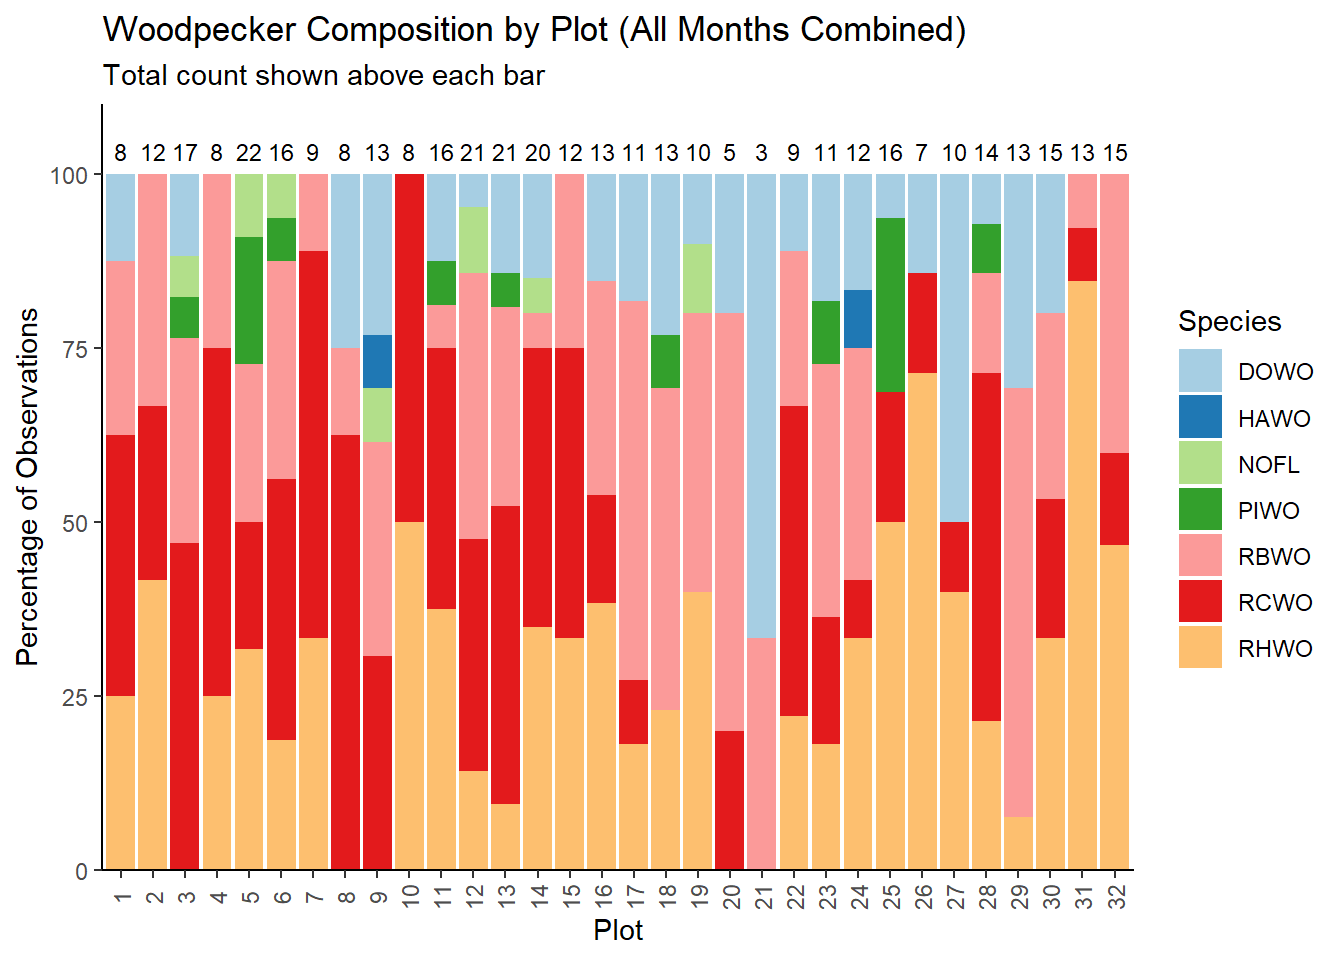
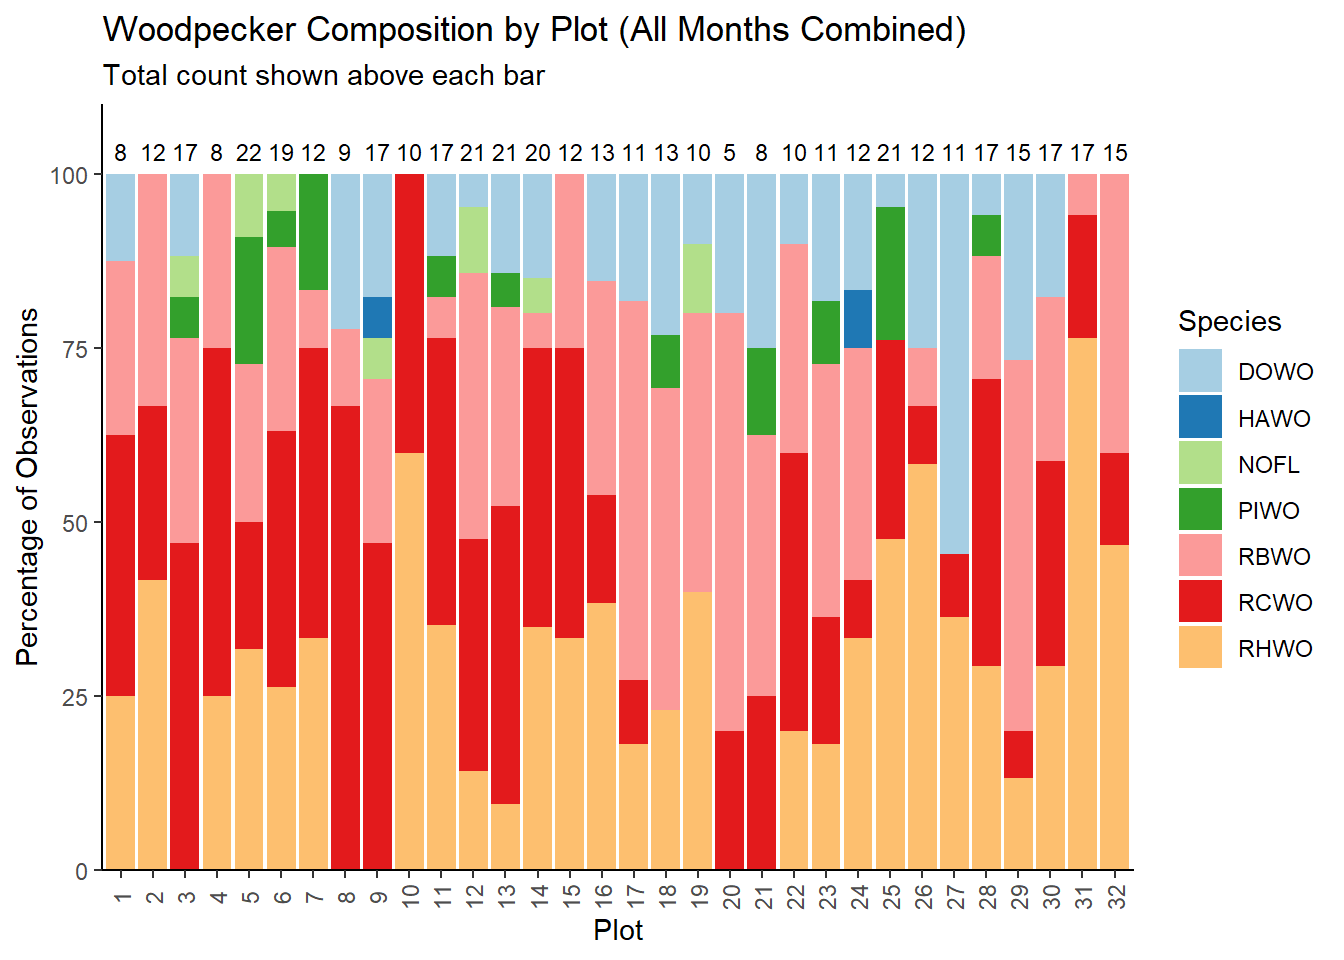
update snags, tls and woodpecker_obs data

diff --git a/docs/woodpecker_obs.html b/docs/woodpecker_obs.html
@@ -275,7 +275,7 @@ Table: June observations by species and plot
 <h1>July Observations</h1>
 <div class="cell">
 <div class="cell-output cell-output-stdout">
-<pre><code>Plot(s) with no observations include:  3, 6, 7, 8, 9, 10, 11, 18, 19, 21, 22, 23, 24, 25, 26, 27, 28, 29, 30, 31, 32</code></pre>
+<pre><code>Plot(s) with no observations include:  3, 18, 19, 23, 24, 32</code></pre>
 </div>
 </div>
 <div class="cell">
@@ -286,10 +286,11 @@ Table: July observations by species and plot
 
 |Species |  1|  2|  3|  4|  5|  6|  7|  8|  9| 10| 11| 12| 13| 14| 15| 16| 17| 18| 19| 20| 21| 22| 23| 24| 25| 26| 27| 28| 29| 30| 31| 32|
 |:-------|--:|--:|--:|--:|--:|--:|--:|--:|--:|--:|--:|--:|--:|--:|--:|--:|--:|--:|--:|--:|--:|--:|--:|--:|--:|--:|--:|--:|--:|--:|--:|--:|
-|DOWO    |  0|  0|  0|  0|  0|  0|  0|  0|  0|  0|  0|  1|  0|  0|  0|  0|  0|  0|  0|  1|  0|  0|  0|  0|  0|  0|  0|  0|  0|  0|  0|  0|
-|RBWO    |  0|  0|  0|  0|  1|  0|  0|  0|  0|  0|  0|  0|  0|  0|  1|  0|  3|  0|  0|  0|  0|  0|  0|  0|  0|  0|  0|  0|  0|  0|  0|  0|
-|RCWO    |  1|  1|  0|  0|  0|  0|  0|  0|  0|  0|  0|  1|  2|  0|  1|  1|  1|  0|  0|  1|  0|  0|  0|  0|  0|  0|  0|  0|  0|  0|  0|  0|
-|RHWO    |  0|  1|  0|  1|  2|  0|  0|  0|  0|  0|  0|  0|  0|  1|  1|  0|  1|  0|  0|  0|  0|  0|  0|  0|  0|  0|  0|  0|  0|  0|  0|  0|</code></pre>
+|DOWO    |  0|  0|  0|  0|  0|  0|  0|  0|  0|  0|  0|  1|  0|  0|  0|  0|  0|  0|  0|  1|  0|  0|  0|  0|  0|  2|  1|  0|  0|  0|  0|  0|
+|PIWO    |  0|  0|  0|  0|  0|  0|  2|  0|  0|  0|  0|  0|  0|  0|  0|  0|  0|  0|  0|  0|  1|  0|  0|  0|  0|  0|  0|  0|  0|  0|  0|  0|
+|RBWO    |  0|  0|  0|  0|  1|  0|  0|  0|  0|  0|  0|  0|  0|  0|  1|  0|  3|  0|  0|  0|  2|  1|  0|  0|  0|  1|  0|  1|  0|  0|  0|  0|
+|RCWO    |  1|  1|  0|  0|  0|  1|  0|  1|  4|  0|  1|  1|  2|  0|  1|  1|  1|  0|  0|  1|  2|  0|  0|  0|  3|  0|  0|  0|  1|  2|  2|  0|
+|RHWO    |  0|  1|  0|  1|  2|  2|  1|  0|  0|  2|  0|  0|  0|  1|  1|  0|  1|  0|  0|  0|  0|  0|  0|  0|  2|  2|  0|  2|  1|  0|  2|  0|</code></pre>
 </div>
 </div>
 <section id="august-coming-soon" class="level2">
